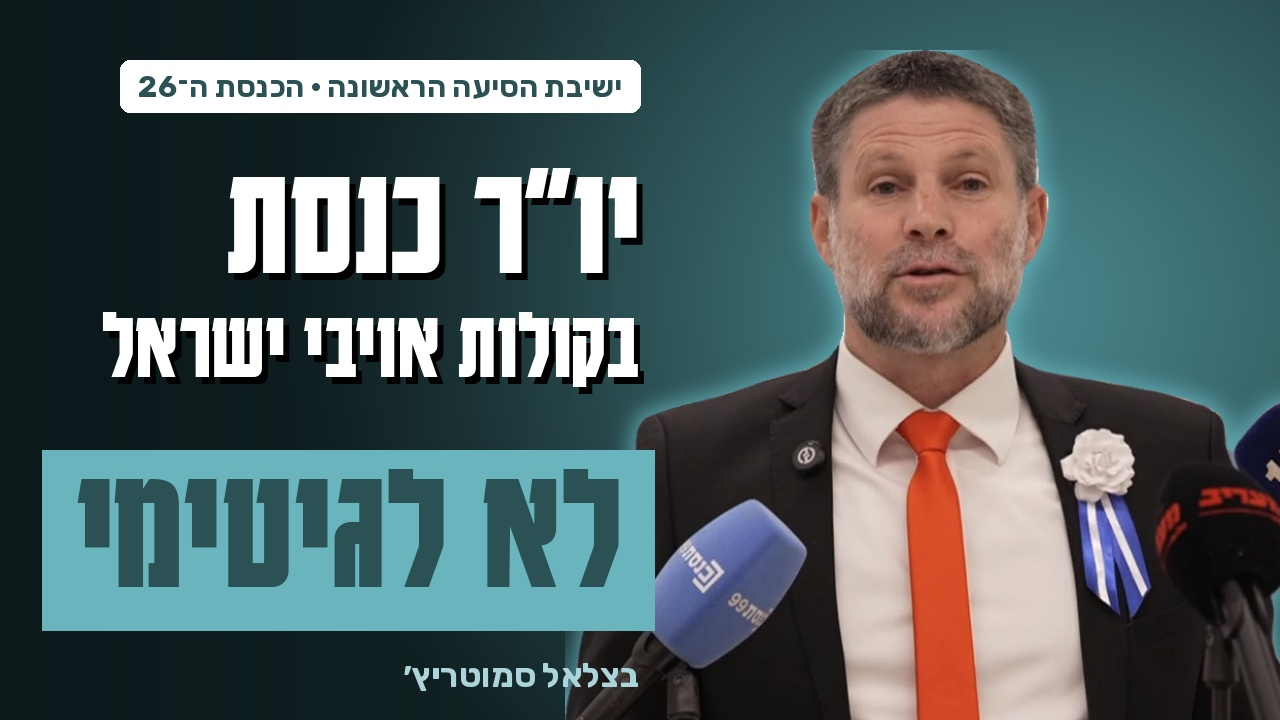
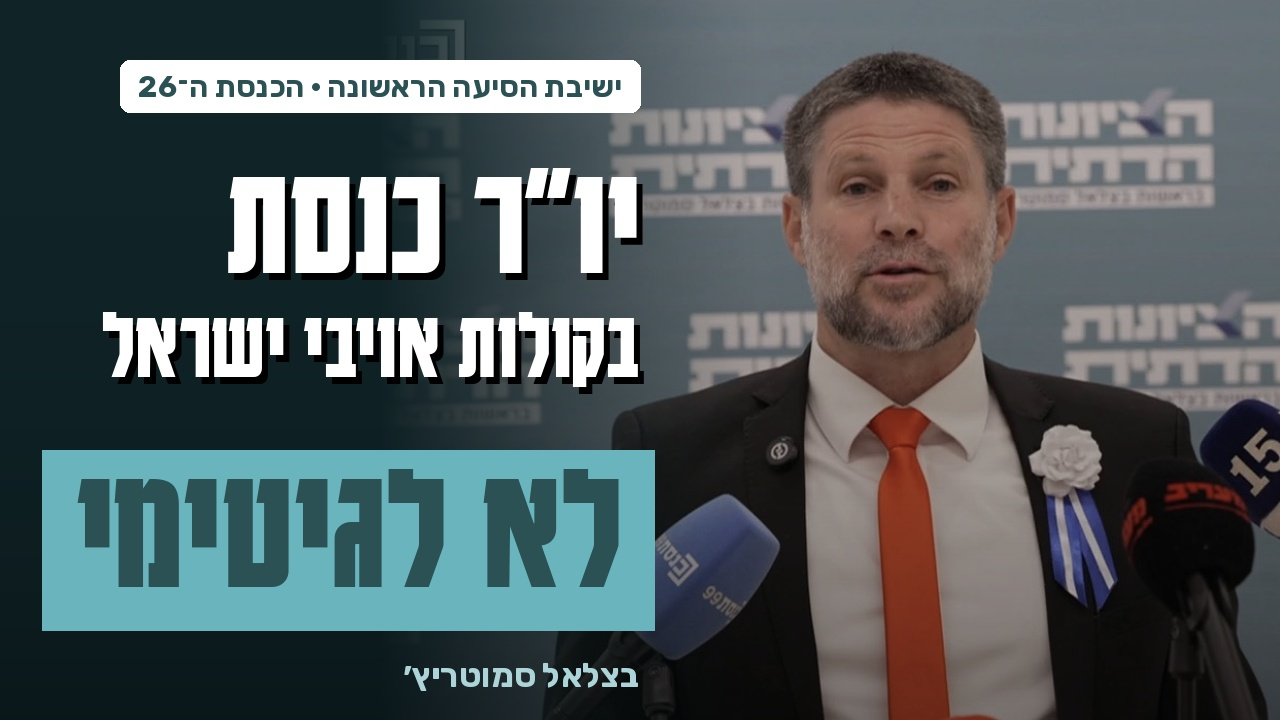
YouTube thumbnail: original event frame on the right
Claude-Session: https://claude.ai/code/session_01RS3QK6pAd3YhyAuXZSJjH1

diff --git a/content-kit/hatzionut-hadatit/2026-11-yt-thumb-knesset26-faction/make.py b/content-kit/hatzionut-hadatit/2026-11-yt-thumb-knesset26-faction/make.py
@@ -6,21 +6,20 @@ KB = glob.glob('/root/.claude/skills/synced/*/pro-video-editing/assets/fonts/Kar
 RUB = '/tmp/claude-0/-home-user-The-tur/1a5819ee-0cc0-5045-b086-4a8a80216453/scratchpad/fonts/Rubik-700.ttf'
 W, H = 1280, 720; DEEP, TEAL, LT, PALE = (43, 81, 85), (80, 146, 153), (105, 180, 189), (173, 213, 217)
 def F(p, s): return ImageFont.truetype(p, s, layout_engine=ImageFont.Layout.RAQM)
-bg = Image.new('RGB', (W, H)); px = bg.load()
-for y in range(H):
-    for x in range(W):
-        g = max(0, 1 - math.hypot((x - 980) / 700, (y - 300) / 600)); v = 1 - .45 * (1 - x / W) ** 1.5
-        px[x, y] = tuple(int((DEEP[i] * .55 + (TEAL[i] - DEEP[i] * .55) * g) * v) for i in range(3))
-im = bg.convert('RGBA')
-# person: right side, bottom-aligned, teal rim glow
-p = Image.open(HERE + '/cutout.png').convert('RGBA'); s = 700 / p.height; p = p.resize((int(p.width * s), 700), Image.LANCZOS)
-x0 = W - p.width + 110; y0 = H - p.height + 30
-a = p.getchannel('A'); glow = Image.new('RGBA', p.size, LT + (0,)); glow.putalpha(a.filter(ImageFilter.MaxFilter(9)).filter(ImageFilter.GaussianBlur(10)).point(lambda v: int(v * .8)))
-im.alpha_composite(glow, (x0, y0)); im.alpha_composite(p, (x0, y0))
-# dark fade so the text side reads
+# the real frame from the event on the right (background kept), dimmed a little; fades into dark teal on the text side
+from PIL import ImageEnhance
+src = Image.open(HERE + '/source.jpg').convert('RGB'); sc = 760 / src.height; src = src.resize((int(src.width * sc), 760), Image.LANCZOS)
+src = ImageEnhance.Brightness(ImageEnhance.Color(src).enhance(.9)).enhance(.82)
+im = Image.new('RGBA', (W, H), (16, 36, 40, 255)); X = W - src.width + 330   # pushes him to the right third
+im.paste(src, (X, -20))
 fade = Image.new('RGBA', (W, H), (0, 0, 0, 0)); fd = ImageDraw.Draw(fade)
-for x in range(W): fd.line((x, 0, x, H), fill=(10, 25, 28, int(170 * max(0, 1 - x / 640) ** 1.3)))
-im.alpha_composite(fade); d = ImageDraw.Draw(im)
+for x in range(W):
+    a = int(255 * min(1, max(0, (760 - x) / 380)) ** 1.2) if x < 760 else 0
+    fd.line((x, 0, x, H), fill=(16, 36, 40, a))
+im.alpha_composite(fade)
+vig = Image.new('RGBA', (W, H), (0, 0, 0, 0)); vd = ImageDraw.Draw(vig)
+for y in range(H): vd.line((0, y, W, y), fill=(0, 0, 0, int(90 * (y / H) ** 2)))
+im.alpha_composite(vig); d = ImageDraw.Draw(im)
 R = 640
 lab = 'ישיבת הסיעה הראשונה · הכנסת ה־26'; f = F(RUB, 30); tw = d.textlength(lab, font=f, direction='rtl')
 d.rounded_rectangle((R - tw - 36, 60, R, 112), 10, fill=(255, 255, 255)); d.text((R - 18, 68), lab, font=f, fill=DEEP, anchor='ra', direction='rtl')
